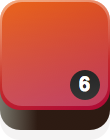
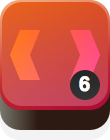
new game mechanics

Changed region(s): [[0.0818, 0.2, 0.3545, 0.5714], [0.6273, 0.2, 0.9273, 0.5429], [0.6273, 0.5429, 0.6545, 0.5714]]

diff --git a/index.html b/index.html
@@ -27,7 +27,7 @@
     height:1334
   });
 
-  engine.loadImage("background","images/background_2.png");
+  // engine.loadImage("background","images/background_2.png");
   engine.loadImage("piece_1","images/piece_1.png");
   engine.loadImage("piece_2","images/piece_2.png");
   engine.loadImage("piece_3","images/piece_3.png");
@@ -82,7 +82,7 @@
     multiplier:1,
     markCount:0,
     getNewBlockType:function(){
-      if(Math.random()<0.025){
+      if(Math.random()<0.03){
         if(Math.random()<0.3)return 10000;
         if(Math.random()<0.3)return 10001;
         return 10002;
@@ -162,13 +162,27 @@
       this.mode=GAMEOVER;
       return true;
     },
+    addScore:function(scoreAdd){
+      this.score+=scoreAdd;
+      if(this.score>this.hiscore  && this.score<10000000){
+        this.hiscore=this.score;
+        localStorage["numbers-hiscore"]=this.hiscore;
+      }
+    },
     blockClicked: function(x,y){
       this.multiplier=1;
       for(var i=0;i<this.blocks.length;i++){
         this.blocks[i].mark=false;
       }
       var num=this.blocks[x+y*this.columns].number;
-      if(num==10010){
+      if(num==6){
+        // new style bomb
+        this.explodeSideBomb(x,y);
+        this.addScore(250);
+        this.addBonusText("Blow away row, 250 points");
+        this.scheduleFunction(this.frameTime,this.collapseBlocks);
+        return;
+      }else if(num==10010){
         // bomb
         this.explodeBomb(x,y);
         this.scheduleFunction(this.frameTime,this.collapseBlocks);
@@ -185,11 +199,7 @@
         for(var i=0;i<this.blocks.length;i++){
           if(this.blocks[i].mark){
             this.blocks[i].number=-1;
-            this.score+=num*this.multiplier;
-            if(this.score>this.hiscore  && this.score<10000000){
-              this.hiscore=this.score;
-              localStorage["numbers-hiscore"]=this.hiscore;
-            }
+            this.addScore(num*this.multiplier);
             scoreAdd+=num*this.multiplier;
           }
         }
@@ -199,23 +209,19 @@
           this.blocks[x+y*this.columns].number=num+1;
           if(num+1>this.largestPiece){
             this.largestPiece=num+1;
-            this.score+=this.largestPiece*this.largestPiece;
+            this.addScore(this.largestPiece*this.largestPiece);
             this.addBonusText("New piece "+this.largestPiece+", "+this.largestPiece*this.largestPiece+" points");
           }
           if(this.markCount>=15){
-            this.score+=250;
+            this.addScore(250);
             this.addBonusText("15+ Group, 250 points");
           }else if(this.markCount>=10){
-            this.score+=100;
+            this.addScore(100);
             this.addBonusText("10+ Group, 100 points");
           }else if(this.markCount>=5){
-            this.score+=25;
+            this.addScore(25);
             this.addBonusText("5+ Group, 25 points");
           }
-          if(this.score>this.hiscore && this.score<10000000){
-              this.hiscore=this.score;
-              localStorage["numbers-hiscore"]=this.hiscore;
-            }
           this.scheduleFunction(this.frameTime,this.collapseBlocks);
         });
 
@@ -241,6 +247,12 @@
       }
       for(var i=0;i<queue.length;i++){
         this.explodeBomb(queue[i].x,queue[i].y);
+      }
+    },
+    explodeSideBomb:function(x,y){
+      for(var ix=0;ix<this.columns;ix++){
+        var b=this.blocks[ix+y*this.columns];
+        b.number=-1;
       }
     },
     click:function(x,y){
